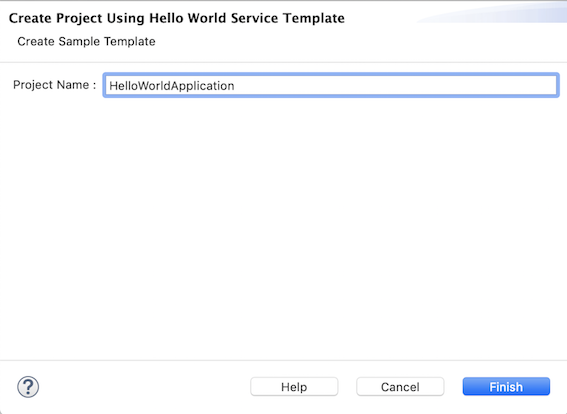
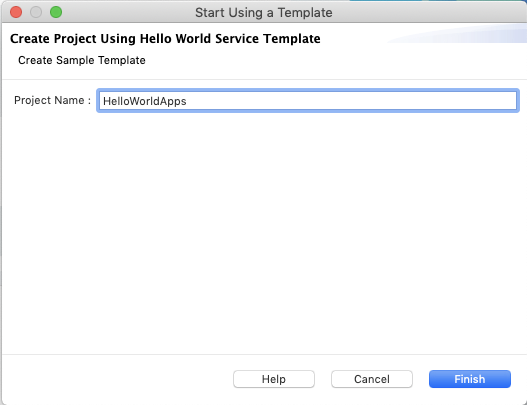
Update 'Deploying in WSO2 Integration Cloud' page

diff --git a/en/micro-integrator/docs/develop/deploying-in-integration-cloud.md b/en/micro-integrator/docs/develop/deploying-in-integration-cloud.md
@@ -28,10 +28,10 @@ how to host a solution on Integration Cloud, follow the steps below:
     !!! Info
         The purpose of this step is to change the default values. You can skip it if required.
 
-    1.  In the left navigator, open the `HelloWorldApplication/src/main/synapse-config/proxy-services/HelloWorld.xml` file. Then click on the **PayloadFactory** icon to open the **Payload Factory Mediator** configuration in the **Properties** tab.  
+    1.  In the left navigator, open the `HelloWorldApps/src/main/synapse-config/proxy-services/HelloWorld.xml` file. Then click on the **PayloadFactory** icon to open the **Payload Factory Mediator** configuration in the **Properties** tab.
         ![Cloud](../../assets/img/create_project/integration_cloud/3.open_properties.png)
 
-    2.  In the **Payload** field, replace the existing value  with `{“data”: “HelloWorld”}`.
+    2.  In the **Payload** field, replace the existing value  with `{"data": "HelloWorld"}`.
 
 ## Step 2: Deploy in WSO2 Integration Cloud
 
